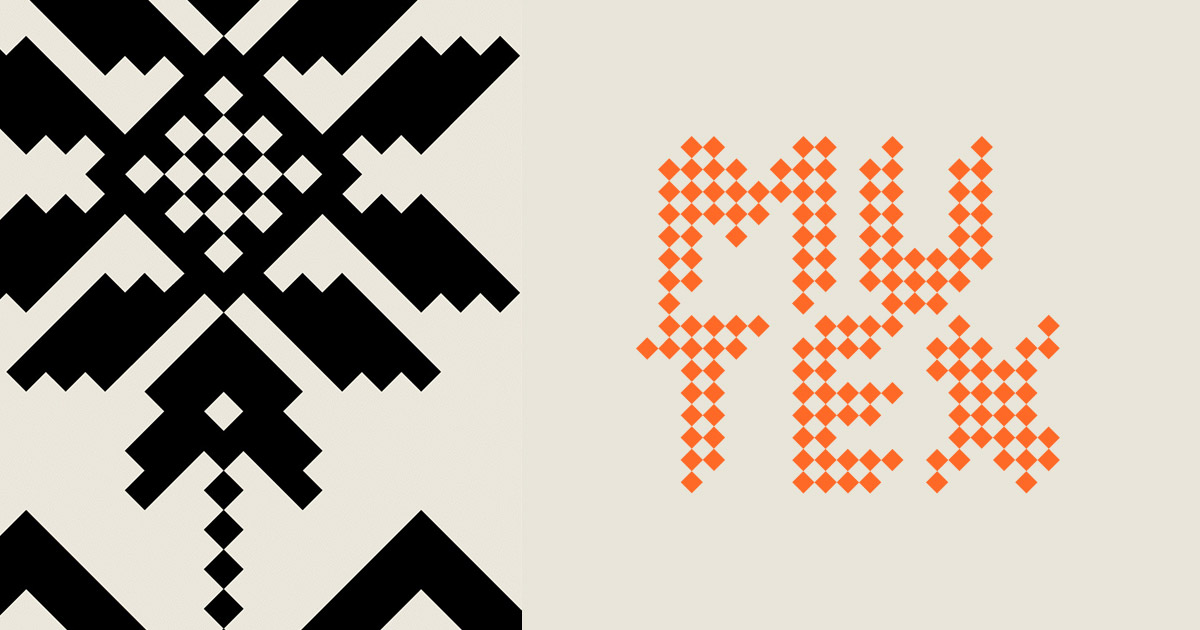
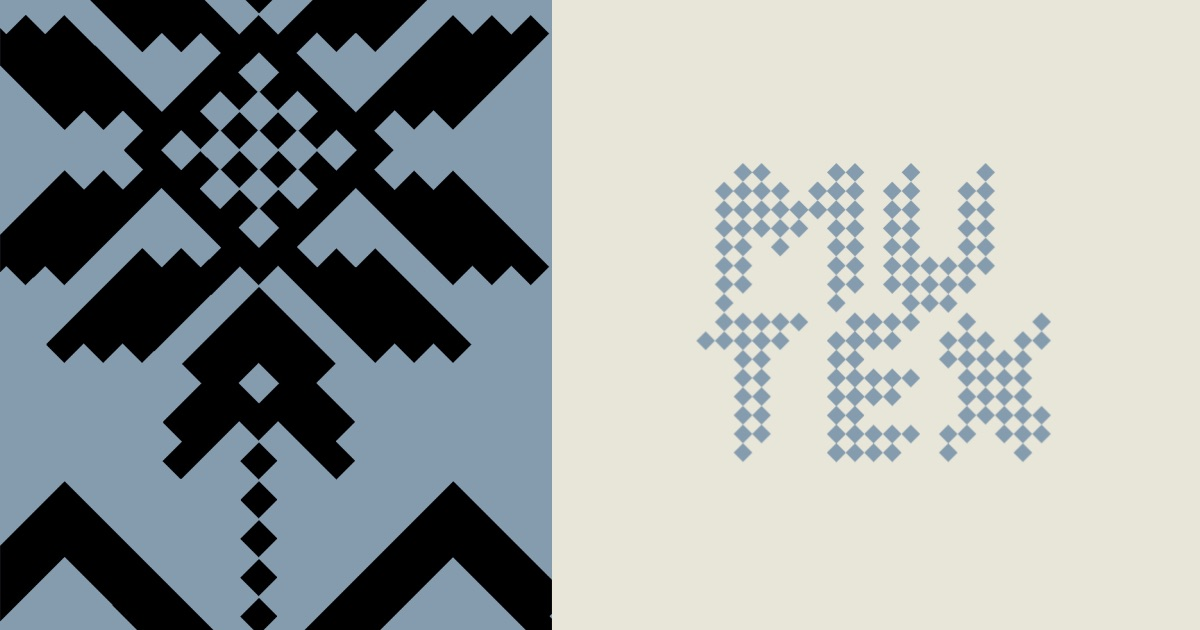
Actualizar la imagen de previsualizacion al rediseno azul
assets/og-image.jpg seguia siendo la version naranja de agosto: muestreando
sus colores dominantes salian crema, negro y #FF6027, sin nada de azul.

La nueva se genero con los assets reales del sitio (un fotograma de
motivo-textil.gif sobre el azul #849CAE a la izquierda, wordmark-naranja.svg
—que ya es azul— sobre crema a la derecha), en 1200x630 y 98 KB.

og:image y twitter:image pasan a apuntar a og-image.jpg?v=2 para que los
scrapers que cachean por URL vuelvan a descargarla.

diff --git a/index.html b/index.html
@@ -15,7 +15,7 @@
   <meta property="og:site_name" content="MuTex" />
   <meta property="og:locale" content="es_GT" />
   <!-- Ruta absoluta a proposito: los scrapers de WhatsApp y Facebook no resuelven rutas relativas -->
-  <meta property="og:image" content="https://museotextildeantigua.com/assets/og-image.jpg" />
+  <meta property="og:image" content="https://museotextildeantigua.com/assets/og-image.jpg?v=2" />
   <meta property="og:image:type" content="image/jpeg" />
   <meta property="og:image:width" content="1200" />
   <meta property="og:image:height" content="630" />
@@ -23,7 +23,7 @@
   <meta name="twitter:card" content="summary_large_image" />
   <meta name="twitter:title" content="MuTex — Museo Textil de Antigua" />
   <meta name="twitter:description" content="El Museo Textil de Antigua pronto abrirá sus puertas." />
-  <meta name="twitter:image" content="https://museotextildeantigua.com/assets/og-image.jpg" />
+  <meta name="twitter:image" content="https://museotextildeantigua.com/assets/og-image.jpg?v=2" />
   <link rel="icon" href="assets/favicon.ico" sizes="any" />
   <link rel="icon" type="image/svg+xml" href="assets/favicon.svg" />
   <link rel="apple-touch-icon" href="assets/apple-touch-icon.png" />
